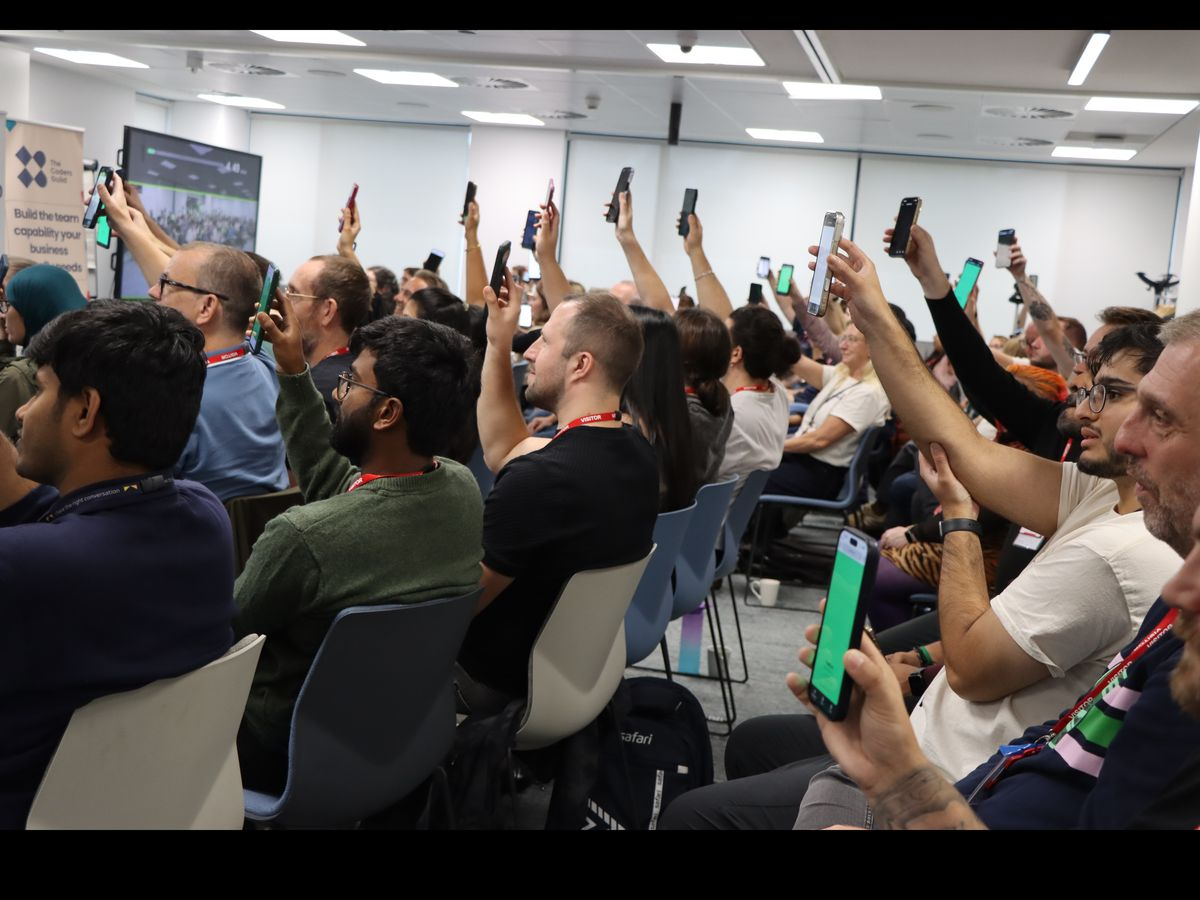
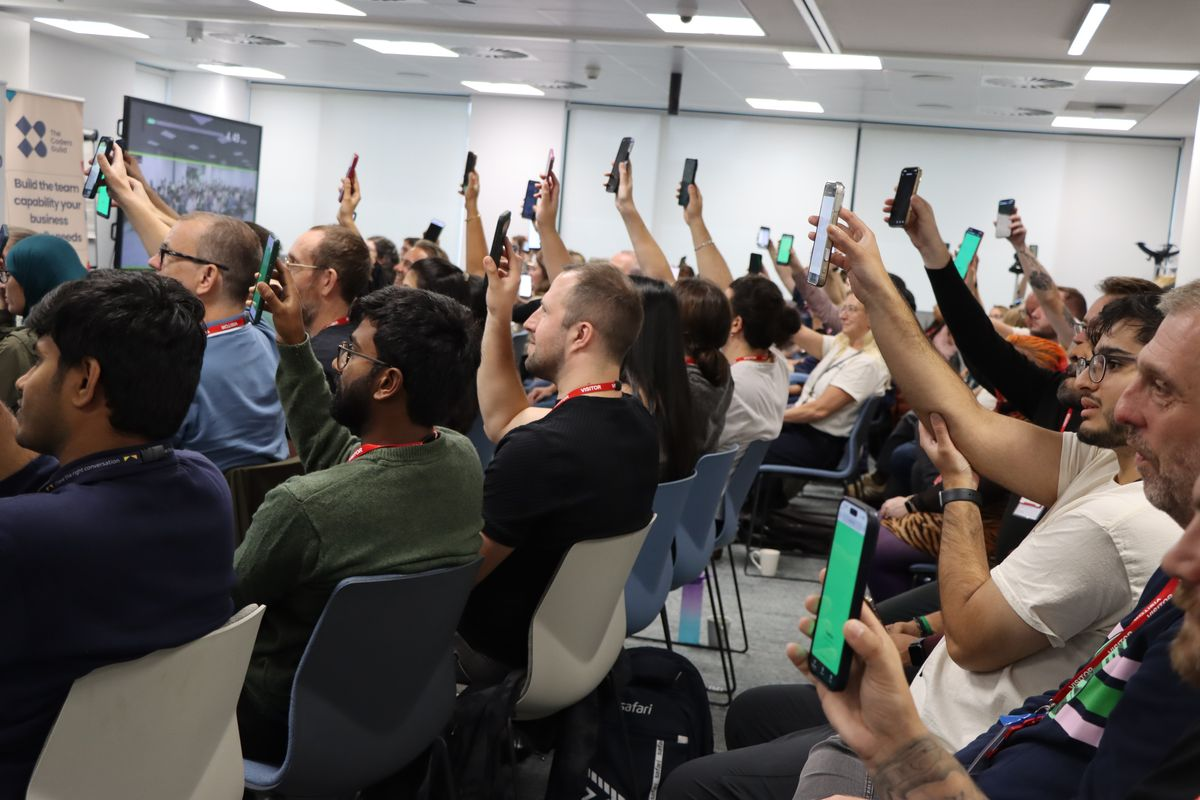
site: the pair had black padding baked in, and the mesh was invisible at rest
Both photographs had a black band along the top and bottom, inside the
border, which is why the border looked like it was sitting away from the
picture. Not a CSS gap: it was in the JPEGs.

My crop took the target height as width*3/4 to get 4:3. On a 6960x4640
source that is 5220, taller than the 4640 available, so the crop box ran
off the bottom of the image and PIL filled the overhang with black. 29
rows at the top, 69 at the bottom, resized down into the file.

Re-exported at the native 3:2 with no crop at all, which was the right
answer anyway: nothing in either frame needed cutting. Verified zero
near-black rows or columns on all four edges. URLs carry ?v=2 because the
filenames did not change and the old files are in the edge cache for 24h.

Separately: the hero mesh sits at 0.2 at rest, up from 0.07. The ruled
grid behind it is 0.05, so the sampling points were within a whisker of
the lines they sit on and you only ever saw the mesh if you happened to
catch the 4.6s sequence on load. That is why it read as mobile-only.

diff --git a/index.html b/index.html
@@ -697,8 +697,12 @@
       /* The settled state, in CSS. requestAnimationFrame is paused for a
          backgrounded tab, so starting at 0 meant a page opened in the
          background had no mesh at all. The sequence plays on top of this
-         rather than creating it. */
-      opacity: 0.07;
+         rather than creating it.
+
+         0.07 was barely above the 0.05 of the ruled grid behind it, so at
+         rest the points were invisible and you only ever saw the mesh if
+         you happened to catch the 4.6s sequence on load. */
+      opacity: 0.2;
       will-change: opacity;
     }
 
@@ -1614,12 +1618,12 @@
     <div class="wrapper">
       <div class="shot-pair">
         <figure class="shot">
-          <img src="/public/testupnorth-crowd-arms.jpg" loading="lazy"
+          <img src="/public/testupnorth-crowd-arms.jpg?v=2" loading="lazy"
                alt="An audience with their phones held above their heads, screens lit, during a pixelmesh effect">
           <figcaption class="clip-caption">Every screen is one pixel.</figcaption>
         </figure>
         <figure class="shot">
-          <img src="/public/testupnorth-room-feed.jpg" loading="lazy"
+          <img src="/public/testupnorth-room-feed.jpg?v=2" loading="lazy"
                alt="The room from the back, with the camera's live view of the audience on the screen at the front">
           <figcaption class="clip-caption">
             One camera at the front, reading the whole room.
@@ -2074,7 +2078,7 @@
       if (!mesh || !hero) return;
 
       const CELL = 32;   // must match .hero-mesh grid-template-columns
-      const SETTLED = 0.07;
+      const SETTLED = 0.2;   // must match .hero-mesh i opacity
       const still = matchMedia("(prefers-reduced-motion: reduce)").matches;
 
       let cells = [], freq = [], phase = [], lockAt = [];
